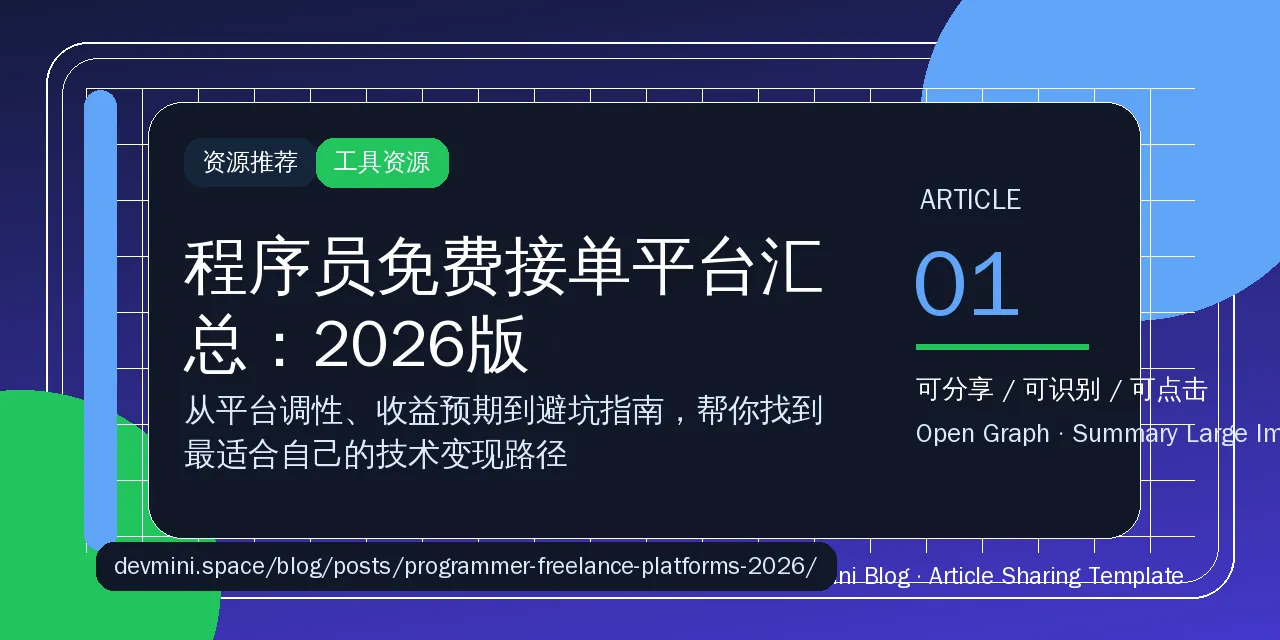
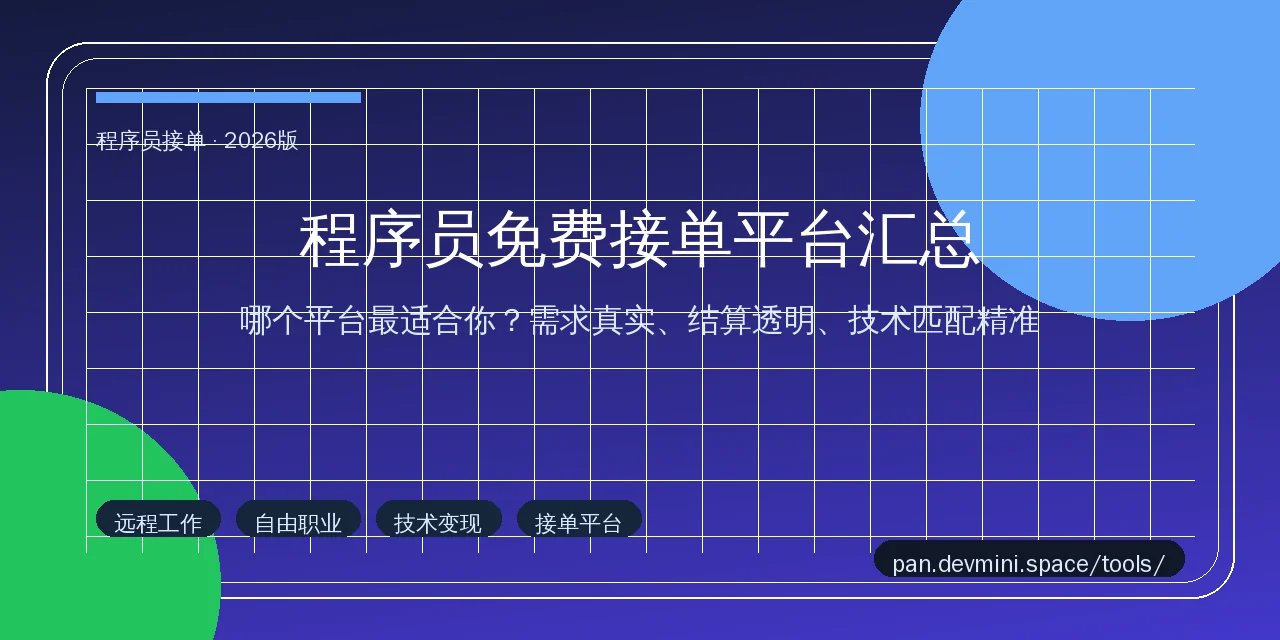
发布：程序员免费接单平台汇总（2026版）

diff --git a/content/posts/programmer-freelance-platforms-2026.md b/content/posts/programmer-freelance-platforms-2026.md
@@ -1,193 +1,75 @@
 ---
 title: "程序员免费接单平台汇总：2026版"
-date: 2026-04-18
+date: 2026-05-22
 draft: false
 author: "白王_"
-tags: ["程序员接单", "自由职业", "远程工作", "技术变现", "平台推荐"]
+tags: ["程序员接单", "远程工作", "自由职业", "技术变现", "接单平台"]
 categories: ["资源推荐"]
-description: "2026年程序员接单平台有哪些？本文系统对比国内外主流接单渠道，从平台调性、适合人群、收益水平到避坑指南，帮你找到最适合自己的变现路径。"
+description: "本文整理2026年主流程序员接单平台，从需求真实性、结算速度、技术门槛三个维度评测，帮你找到适合自己技术栈的自由职业入口。文章还推荐实用的接单工具和报价参考，适合想开启副业或转型远程的开发者参考。"
 slug: "programmer-freelance-platforms-2026"
 images: ["og/programmer-freelance-platforms-2026.png"]
 thumbnail: "og/programmer-freelance-platforms-2026.png"
 ---
 
-程序员的收入天花板不只是工资。靠技能接单，是很多人从「出卖时间」走向「出售成果」的第一步。但问题是：接单平台这么多，哪个真正适合你？
+## 程序员免费接单平台汇总：2026版，哪个最适合你？
 
-有的人在 Upwork 三个月内从零冲到 Top Rated，有的人在国内众包平台接了半年还在被压价；有的人靠独立开发站着把钱挣了，有的人在二手外包平台里卷成一团。**不是平台不行，是大多数人从一开始就选错了战场。**
+2026年，程序员远程工作和自由职业的生态已经相当成熟。无论是想用业余时间做副业，还是打算转型全职远程，找到靠谱的接单平台是关键第一步。市场上的平台良莠不齐，有些靠高额抽佣盈利，有些则对开发者相对友好。本文从实际案例出发，梳理主流平台的核心差异，帮你少走弯路。
 
-这篇文章不给你列一张冰冷的榜单，而是从平台调性、目标人群、收益预期三个维度，把2026年最值得关注的程序员接单渠道说清楚。
+## 背景与现状
 
-## 为什么程序员接单这件事值得认真对待
+- **市场规模持续扩大**：据不完全统计，2026年国内程序员远程兼职市场规模已超百亿，越来越多的企业愿意为远程技术人才付费，尤其是中小型项目和短期需求。
+- **平台分化明显**：垂直技术平台（如程序员客栈、FreelerX）更注重需求真实性；综合平台（如Boss直聘远程岗、猪八戒）流量大但竞争激烈；国际平台（如Upwork、Toptal）单价高但语言门槛和结算周期是挑战。
+- **技术栈决定平台匹配度**：后端开发（Java/Go/Python）和全栈需求最多，移动端（iOS/Android）单价稳定，前端和小程序开发竞争激烈但需求旺盛。
 
-### 接单不只是副业，是产品能力的倒逼
+## 为什么值得推荐
 
-很多人以为接单就是「用时间换钱」，这是误解。真正把接单做成长线收入的人，靠的是：
+### 推荐点1：平台需求真实度高，骗子少
 
-- **快速理解需求**：客户说「我要一个用户增长模块」，你要能在10分钟内拆出技术路径和工期
-- **交付物的可维护性**：代码不只是跑通就行，要让别人能接手、能让客户下次还找你
-- **商业沟通能力**：会写代码 + 会谈需求 = 溢价空间翻倍
+主流垂直平台对发包方有审核机制，需求发布前会人工复核，大幅减少"钓鱼单"和无效询价。相比综合性平台，程序员社区属性的平台更能过滤掉低价套方案的情况，接单体验更干净。
 
-这三个能力，在打工环境里很难同时锻炼。接单是少有的「全栈实战」场景。
+### 推荐点2：结算机制透明，到账快
 
-### 远程工作的基础设施已经成熟
+好的平台会提供托管付款机制，需求方预付款平台托管，完成验收后直接打款，避免了口头承诺无法兑现的问题。2026年主流平台普遍支持支付宝/微信直接打款，部分国际平台支持PayPal或Wise结算。
 
-2020年之后，远程协作工具链（Git、Notion、Linear、Figma、Loom）已经非常成熟。甲方也越来越习惯线上沟通、异步交付。不需要你在北京五道口，不需要你蹲在客户公司楼下——只要网线畅通，全球订单都可以接。
+### 推荐点3：技术匹配精准，减少无效沟通
 
-### 技术变现的路径比你想的多
+基于技能标签的智能匹配是区分平台质量的关键。平台如果能根据你的技术栈（语言、框架、经验年限）推送相关需求，接单效率会大幅提升。好的匹配机制能将有效咨询率提升3-5倍，节省大量时间。
 
-不是所有程序员都适合「去外包平台抢单」。以下几个方向，收益差距极大：
+## 入口推荐
 
-| 方向 | 典型平台 | 月收入中位数 | 适合人群 |
-|------|---------|------------|---------|
-| 二手外包 | 猪八戒/程序员客栈 | 3k-8k | 入门练手 |
-| 一手外包 | Upwork/Toptal/Freelancer | 8k-30k | 有英语基础 |
-| 独立开发 | Product Hunt/GitHub Sponsors | 上不封顶 | 有产品思维 |
-| 技术内容 | CSDN/掘金/知识星球 | 被动收入 | 善于沉淀 |
+如果你正在寻找适合自己的接单渠道，建议先从 [pan.devmini.space/tools/](https://pan.devmini.space/tools/) 的技术工具板块入手，其中收录了主流接单平台的直达链接和使用评测。同时关注平台的技术社区和话题区，很多优质需求会优先发布在社区里，而非公开招标区。
 
-先搞清楚自己要走哪条路，再去找对应平台。
+## 使用建议
 
-## 国内平台：门槛低，但竞争也激烈
+**第一步：完善技术档案**
 
-### 程序员客栈
+入驻平台前，把个人技术档案填写完整，包括：技术栈明细、项目经历、可工作时间、期望时薪或报价区间。档案完整度直接影响平台推荐精度和需求方信任度。
 
-定位：国内最早的程序员外包平台之一，主打「按项目签约」。
+**第二步：从低价需求起步积累信用**
 
-适合人群：国内客户为主、有一定项目经验的初中级工程师。
+新入驻时不要急于接高价单，先完成2-3个低价或中等价位的需求，积累真实的评价记录。好评积累到一定数量后，高价需求的咨询转化率会明显提升。
 
-优点：
-- 项目数量多，覆盖 Web、移动端、小程序、算法都有
-- 结算周期相对稳定
-- 有经纪人介入，纠纷处理相对规范
+**第三步：用作品集替代简历**
 
-缺点：
-- 僧多粥少，单价被压得厉害
-- 平台抽成约15%-20%
-- 竞争激烈，新人前期很难抢到优质单
+需求方最关心的是你能不能解决问题。准备一个简洁的项目作品集（GitHub链接或在线Demo），比长篇简历更有说服力。每个作品集链接附带30字以内的项目描述和你的具体贡献。
 
-**建议**：把它当成练手平台，不要作为主要收入来源。前3-6个月以积累评价为主，之后再考虑是否深耕。
+**第四步：设定接单上限，避免超负荷**
 
-### 猪八戒
+自由职业最大的陷阱是接单过量导致交付质量下降。建议同时进行的需求不超过2-3个，预留足够的缓冲时间处理需求变更和代码优化。
 
-定位：综合性众包平台，程序员只是其中一个类目。
+## 常见问题FAQ
 
-适合人群：技能全面、能独立完成全栈项目的开发者。
+**Q1：程序员接单平台哪个抽佣最低？**
+A1：主流垂直平台抽佣比例普遍在10%-20%之间，国际平台如Toptal对高技能人才抽佣可低至5%以下。选择抽佣较低的平台长期来看能显著提升净收入，但也要综合看需求质量和结算保障。
 
-优点：
-- 订单量大，什么类型都有
-- 部分订单是政府采购或企业非核心外包，有一定持续性
+**Q2：没有正式工作经验的大学生能接单吗？**
+A2：可以，但需要用作品集证明能力。大学生接单建议从小程序、静态网页、数据处理脚本等边界清晰的需求入手，价格放低一些，先积累真实项目经验和好评。
 
-缺点：
-- 极度分散，劣质需求多
-- 客户鱼龙混杂，沟通成本高
-- 大量「比稿」模式，实际是免费劳动
+**Q3：远程接单如何防止被拖欠款项？**
+A3：务必使用平台托管付款功能，不要私下转账或接受口头付款约定。需求启动前确认需求方的付款意愿和平台托管机制是否正常运作，是最有效的风控手段。
 
-**建议**：如果你只能选一个国内平台，程序员客栈比猪八戒更垂直。猪八戒适合在客栈积累了一定评价以后，作为补充渠道。
+## 相关资源
 
-### 码市（CodeMarket）
-
-定位：近年崛起的垂直外包平台，主打「先托管后开发」。
-
-适合人群：对资金安全有要求、接触过众包的开发者。
-
-优点：
-- 资金托管模式，客户确认后才放款，纠纷少
-- 需求发布比较规范，减少无效沟通
-
-缺点：
-- 平台相对较小，流量有限
-- 抽成比例各家不一，签约前要问清楚
-
-## 国际平台：收益天花板高，但门槛也高
-
-### Upwork
-
-定位：全球最大的综合自由职业平台，覆盖编程、设计、写作等领域。
-
-适合人群：有基本英语沟通能力、想冲击高收益的程序员。
-
-Upwork 的核心逻辑是**Bidding（竞标）**。你需要：
-1. 写一封有针对性的 proposal，说明你为什么适合这个项目
-2. 积累 Upwork 自身的工作历史（Work History）
-3. 通过「关联工作时长」建立可信度
-
-**收益预期**：入门阶段（0-50小时评分），时薪约15-30美元；Top Rated 后，时薪可以稳定在60-150美元，部分专项技能可以到200美元以上。
-
-**初期避坑**：
-- 不要用模板化 proposal，甲方一眼就能看出来
-- 不要低价抢单，一旦定价过低，Upwork 算法会持续给你推低价单
-- 前3-5个项目优先选「固定价格」而非「时薪」，便于建立交付口碑
-
-### Toptal
-
-定位：高端自由职业平台，只接受全球前10%的程序员。
-
-适合人群：资深工程师、有大厂背景或专项技术深度的开发者。
-
-Toptal 的筛选流程极其严格：
-1. 语言和性格测试
-2. 技术考核（限时算法题）
-3. 模拟项目实战
-4. 背景调查
-
-通过后，你会进入 Toptal 的专属网络，平台直接对接客户，**不收 Bidding 费用**。抽成约10%-20%，但客户质量极高，项目周期稳定。
-
-**收益预期**：月收入2万-10万人民币不等，部分专项项目可以更高。
-
-### GitHub Sponsors + 开源变现
-
-不是传统接单，但值得单独说。
-
-如果你有维护成熟开源项目的能力，GitHub Sponsors 是被动收入来源。配合：
-- GitHub Marketplace 插件收入
-- 技术博客广告分成
-- 知识星球/CSDN付费专栏
-
-这四条路组合起来，比大多数外包平台的天花板高得多。
-
-**缺点**：需要先投入大量时间建立技术影响力，短期内不会看到回报。
-
-## 独立开发：风险最高，收益也最高
-
-这是最难走的路，也是收益上限最高的路。
-
-独立开发者靠的是：
-- 找到一个小而真实的细分需求
-- 用 2-4 周快速出 MVP
-- 通过 Product Hunt、Twitter、IndieHacker 等渠道获取早期用户
-- 迭代到 Product-Market Fit
-
-**代表案例**：
-- Vercel（前端部署平台）→ 从接私活到融资
-- Linear（项目管理工具）→ 从 Side Project 到独角兽
-- 无数 Notion 插件、Chrome 插件、API 服务商
-
-**适合人群**：有产品思维、有一定积蓄可以支撑3-6个月无收入、愿意折腾的人。
-
-## 工具资源推荐：接单过程中你需要用到的
-
-程序员接单不只是找平台，后续的项目管理、合同签署、收款渠道都需要配套工具：
-
-- **项目管理**：Linear（追踪任务）、Notion（整理客户需求）
-- **合同签署**：DocuSign（国际）、腾讯电子签（国内）
-- **收款**：Wise（国际收款，费率低）、PayPal（客户熟悉，但手续费高）
-- **代码演示**：CodeSandbox（快速出 Demo 给客户看）、Loom（录制演示视频）
-
-这些工具在 [`pan.devmini.space/tools/`](https://pan.devmini.space/tools/) 里有持续更新的整理，接单之前可以先熟悉一遍。
-
-## 总结：没有最好的平台，只有最适合你的路径
-
-| 阶段 | 推荐平台 | 核心目标 |
-|------|---------|---------|
-| 入门练手（0-6个月）| 程序员客栈 | 积累评价，了解需求沟通 |
-| 收入爬坡（6-18个月）| Upwork + 国内平台 | 建立口碑，提高单价 |
-| 高收益稳定（18个月+）| Toptal / 独立开发 | 进入高端市场或自主产品 |
-| 长期资产构建 | GitHub Sponsors + 内容 | 被动收入，降低接单依赖 |
-
-不要同时在所有平台撒网。**选一个方向，深耕3-6个月，拿到结果再说。**
-
-如果你想了解更多技术变现的资源，[`pan.devmini.space/book/`](https://pan.devmini.space/book/) 里有一些关于商业思维和副业变现的书单资料，可以作为拓展阅读。
-
-相关推荐：
-- [`AI写作工具横评：Claude/ChatGPT/Gemini/DeepSeek`](/posts/ai-writing-tools-comparison-2026/)
-- [`免费学习网站推荐：如何找到靠谱的在线学习资源平台`](/posts/free-learning-sites-guide/)
-- [`工具资源网站推荐：效率工具、软件资源与工作流网站导航`](/posts/tools-resource-sites-guide/)
+- [程序员接单平台汇总：2026版](https://pan.devmini.space/book/)
+- [AI工具与效率软件推荐](https://pan.devmini.space/AIknowledge/)
+- [免费工具网站导航](https://pan.devmini.space/tools/)
